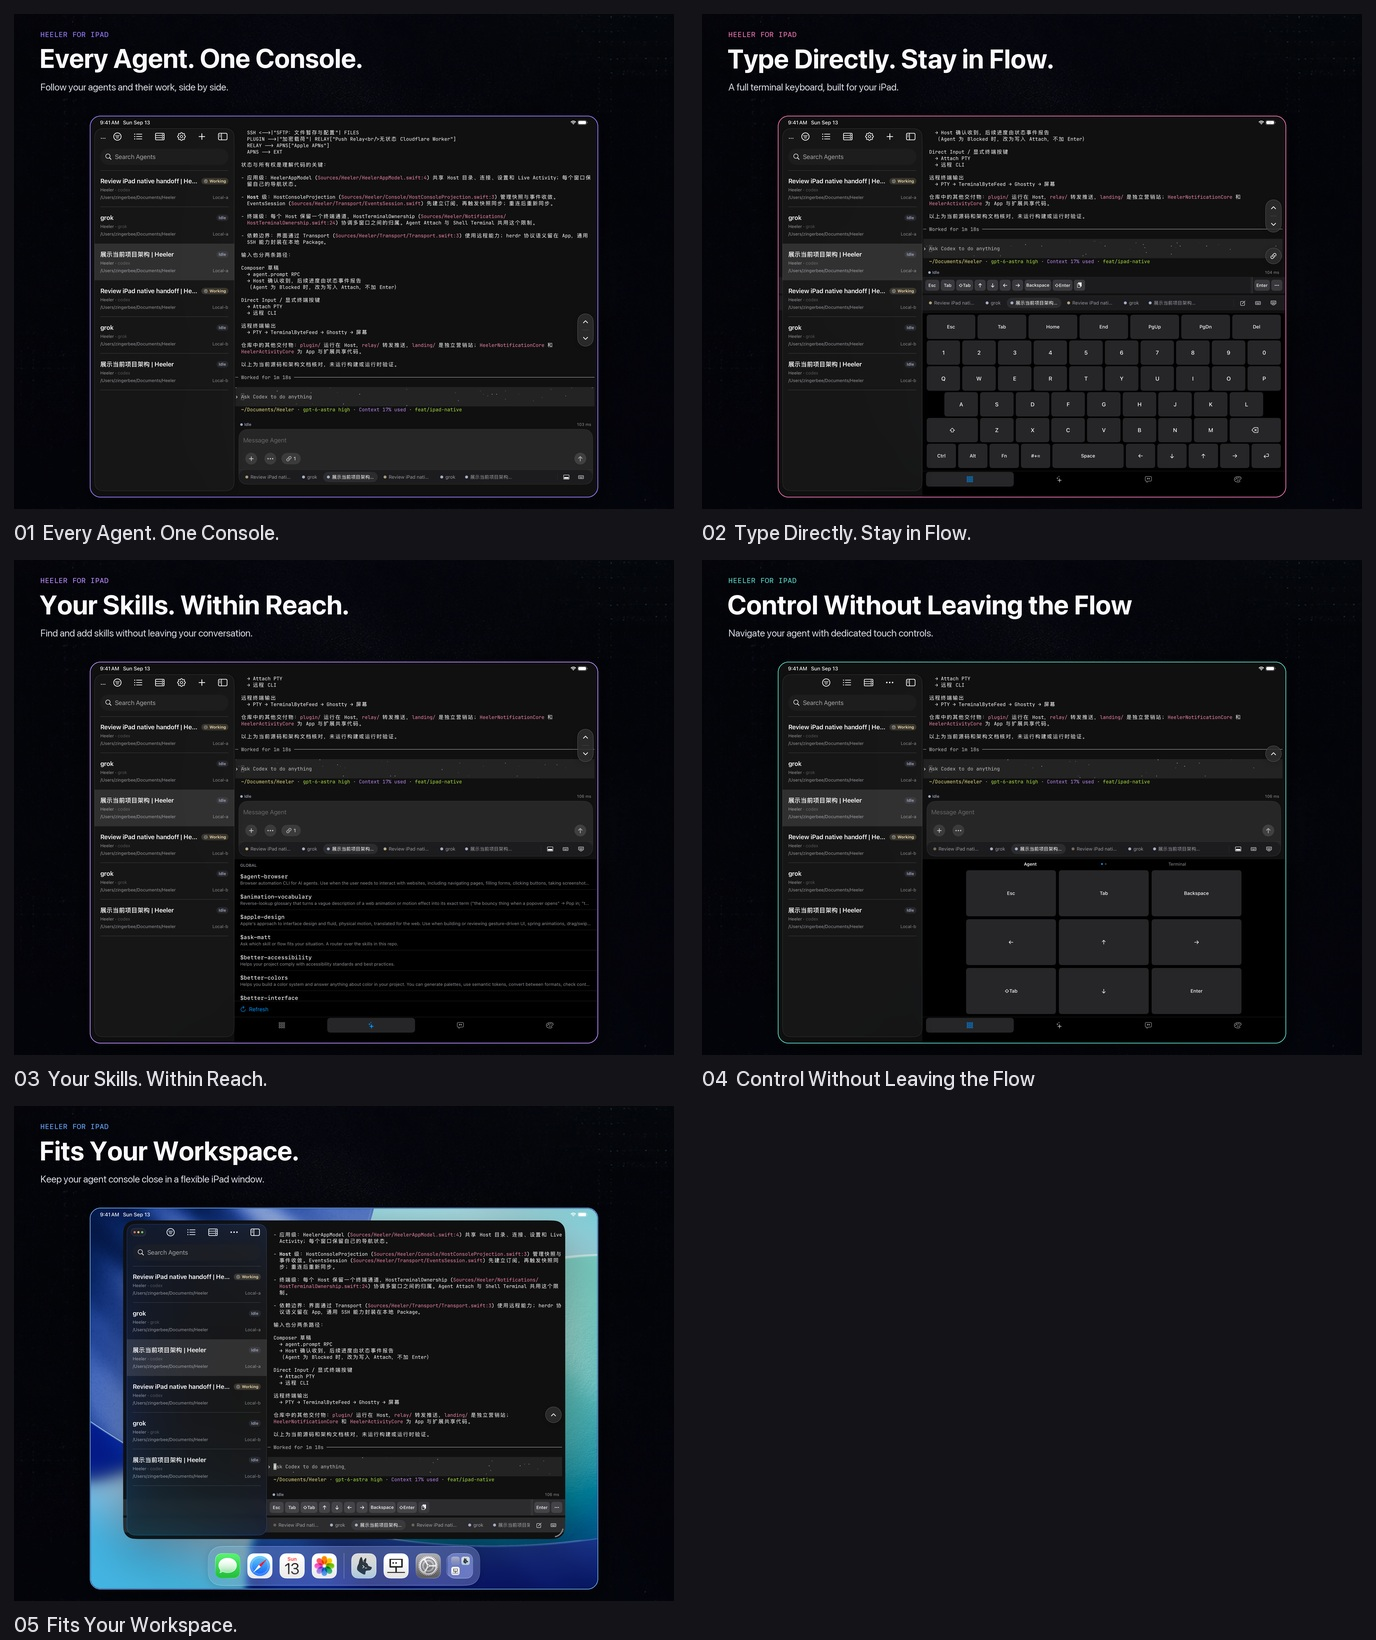
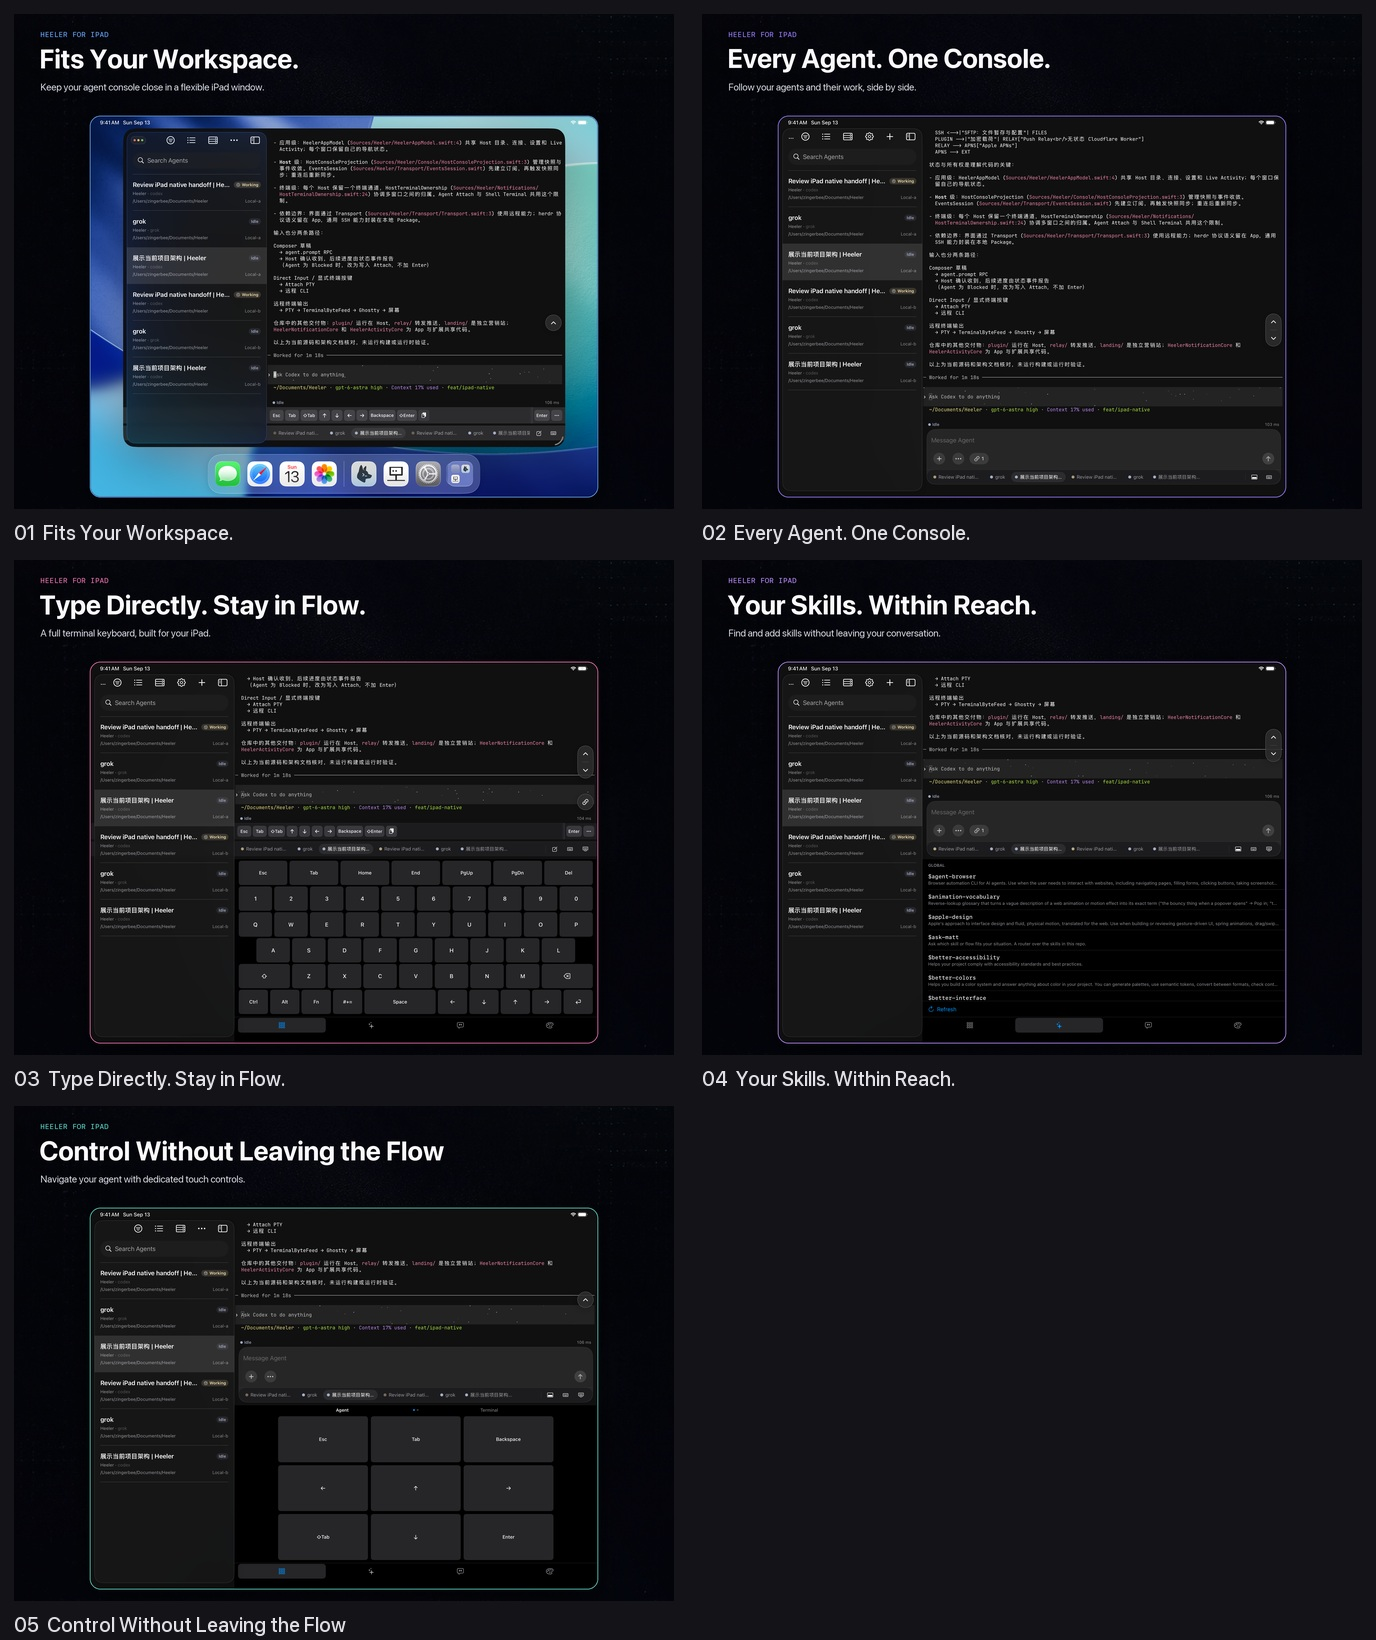
docs(app-store): lead ipad screenshots with windowed view

diff --git a/output/app-store/ipad-13/index.html b/output/app-store/ipad-13/index.html
@@ -1,5 +1,5 @@
-<!doctype html><html lang="en"><meta charset="utf-8"><meta name="viewport" content="width=device-width,initial-scale=1"><title>Heeler iPad App Store screenshots</title><style>body{margin:32px auto;padding:0 24px;max-width:1400px;background:#111114;color:#eee;font:16px/1.5 -apple-system,BlinkMacSystemFont,sans-serif}h1{font-size:28px}p,figcaption{color:#b8b8c0}a{color:#c4b2ff}figure{margin:40px 0}img{display:block;width:100%;height:auto;border-radius:10px}figcaption{margin-top:10px}</style><h1>Heeler for iPad</h1><p>Five landscape App Store mockups · 2752 × 2064 · opaque RGB PNG.<br>Real simulator captures with English marketing copy. The requested Codex architecture conversation remains in Chinese.</p><figure><a href="exports/01-every-agent-one-console.png"><img src="exports/01-every-agent-one-console.png" alt="Every Agent. One Console."></a><figcaption>Every Agent. One Console. · <a href="exports/01-every-agent-one-console.png" download>Download PNG</a></figcaption></figure>
-<figure><a href="exports/02-type-directly-stay-in-flow.png"><img src="exports/02-type-directly-stay-in-flow.png" alt="Type Directly. Stay in Flow."></a><figcaption>Type Directly. Stay in Flow. · <a href="exports/02-type-directly-stay-in-flow.png" download>Download PNG</a></figcaption></figure>
-<figure><a href="exports/03-skills-within-reach.png"><img src="exports/03-skills-within-reach.png" alt="Your Skills. Within Reach."></a><figcaption>Your Skills. Within Reach. · <a href="exports/03-skills-within-reach.png" download>Download PNG</a></figcaption></figure>
-<figure><a href="exports/04-control-without-leaving-the-flow.png"><img src="exports/04-control-without-leaving-the-flow.png" alt="Control Without Leaving the Flow"></a><figcaption>Control Without Leaving the Flow · <a href="exports/04-control-without-leaving-the-flow.png" download>Download PNG</a></figcaption></figure>
-<figure><a href="exports/05-fits-your-workspace.png"><img src="exports/05-fits-your-workspace.png" alt="Fits Your Workspace."></a><figcaption>Fits Your Workspace. · <a href="exports/05-fits-your-workspace.png" download>Download PNG</a></figcaption></figure></html>
+<!doctype html><html lang="en"><meta charset="utf-8"><meta name="viewport" content="width=device-width,initial-scale=1"><title>Heeler iPad App Store screenshots</title><style>body{margin:32px auto;padding:0 24px;max-width:1400px;background:#111114;color:#eee;font:16px/1.5 -apple-system,BlinkMacSystemFont,sans-serif}h1{font-size:28px}p,figcaption{color:#b8b8c0}a{color:#c4b2ff}figure{margin:40px 0}img{display:block;width:100%;height:auto;border-radius:10px}figcaption{margin-top:10px}</style><h1>Heeler for iPad</h1><p>Five landscape App Store mockups · 2752 × 2064 · opaque RGB PNG.<br>Real simulator captures with English marketing copy. The requested Codex architecture conversation remains in Chinese.</p><figure><a href="exports/01-fits-your-workspace.png"><img src="exports/01-fits-your-workspace.png" alt="Fits Your Workspace."></a><figcaption>Fits Your Workspace. · <a href="exports/01-fits-your-workspace.png" download>Download PNG</a></figcaption></figure>
+<figure><a href="exports/02-every-agent-one-console.png"><img src="exports/02-every-agent-one-console.png" alt="Every Agent. One Console."></a><figcaption>Every Agent. One Console. · <a href="exports/02-every-agent-one-console.png" download>Download PNG</a></figcaption></figure>
+<figure><a href="exports/03-type-directly-stay-in-flow.png"><img src="exports/03-type-directly-stay-in-flow.png" alt="Type Directly. Stay in Flow."></a><figcaption>Type Directly. Stay in Flow. · <a href="exports/03-type-directly-stay-in-flow.png" download>Download PNG</a></figcaption></figure>
+<figure><a href="exports/04-skills-within-reach.png"><img src="exports/04-skills-within-reach.png" alt="Your Skills. Within Reach."></a><figcaption>Your Skills. Within Reach. · <a href="exports/04-skills-within-reach.png" download>Download PNG</a></figcaption></figure>
+<figure><a href="exports/05-control-without-leaving-the-flow.png"><img src="exports/05-control-without-leaving-the-flow.png" alt="Control Without Leaving the Flow"></a><figcaption>Control Without Leaving the Flow · <a href="exports/05-control-without-leaving-the-flow.png" download>Download PNG</a></figcaption></figure></html>

diff --git a/output/app-store/ipad-13/compose_mockups.py b/output/app-store/ipad-13/compose_mockups.py
@@ -31,34 +31,34 @@ class Mockup:
 
 MOCKUPS = (
     Mockup(
-        "01-every-agent-one-console", "01-console.png",
+        "01-fits-your-workspace", "05-windowed-console.png",
+        "Fits Your Workspace.",
+        "Keep your agent console close in a flexible iPad window.",
+        (102, 166, 255),
+    ),
+    Mockup(
+        "02-every-agent-one-console", "01-console.png",
         "Every Agent. One Console.",
         "Follow your agents and their work, side by side.",
         (152, 124, 255),
     ),
     Mockup(
-        "02-type-directly-stay-in-flow", "02-terminal-keyboard.png",
+        "03-type-directly-stay-in-flow", "02-terminal-keyboard.png",
         "Type Directly. Stay in Flow.",
         "A full terminal keyboard, built for your iPad.",
         (236, 113, 177),
     ),
     Mockup(
-        "03-skills-within-reach", "03-skills.png",
+        "04-skills-within-reach", "03-skills.png",
         "Your Skills. Within Reach.",
         "Find and add skills without leaving your conversation.",
         (184, 137, 255),
     ),
     Mockup(
-        "04-control-without-leaving-the-flow", "04-agent-controls.png",
+        "05-control-without-leaving-the-flow", "04-agent-controls.png",
         "Control Without Leaving the Flow",
         "Navigate your agent with dedicated touch controls.",
         (88, 214, 198),
-    ),
-    Mockup(
-        "05-fits-your-workspace", "05-windowed-console.png",
-        "Fits Your Workspace.",
-        "Keep your agent console close in a flexible iPad window.",
-        (102, 166, 255),
     ),
 )
 

diff --git a/output/app-store/ipad-13/README.md b/output/app-store/ipad-13/README.md
@@ -2,17 +2,17 @@
 
 Five landscape exports for the 13-inch iPad screenshot slot. Each export is an
 opaque RGB PNG at 2752 × 2064 pixels. The numbered filenames define the proposed
-upload order, with the console overview first.
+upload order, with the floating-window presentation first.
 
 ## Contents
 
 | Order | Export | Focus |
 | --- | --- | --- |
-| 1 | `exports/01-every-agent-one-console.png` | Agent sidebar and selected Codex conversation |
-| 2 | `exports/02-type-directly-stay-in-flow.png` | Direct Input and the full Terminal keyboard |
-| 3 | `exports/03-skills-within-reach.png` | Composer Skills dock |
-| 4 | `exports/04-control-without-leaving-the-flow.png` | Composer and Agent control keys |
-| 5 | `exports/05-fits-your-workspace.png` | A real floating Heeler window on iPad |
+| 1 | `exports/01-fits-your-workspace.png` | A real floating Heeler window on iPad |
+| 2 | `exports/02-every-agent-one-console.png` | Agent sidebar and selected Codex conversation |
+| 3 | `exports/03-type-directly-stay-in-flow.png` | Direct Input and the full Terminal keyboard |
+| 4 | `exports/04-skills-within-reach.png` | Composer Skills dock |
+| 5 | `exports/05-control-without-leaving-the-flow.png` | Composer and Agent control keys |
 
 `contact-sheet.jpg` provides an overview; `index.html` links the five full-size
 exports. Neither the contact sheet nor the source captures belong in the upload
@@ -47,7 +47,7 @@ have not been produced.
 
 ## Scope and verification
 
-The fifth image uses the previously captured floating window in place of the
+The first image uses the previously captured floating window in place of the
 proposed Shell image: opening a Shell can create a remote terminal, which would
 exceed the existing read-only Herdr constraint. This image demonstrates windowed
 presentation; it does not establish minimum-width behavior.
